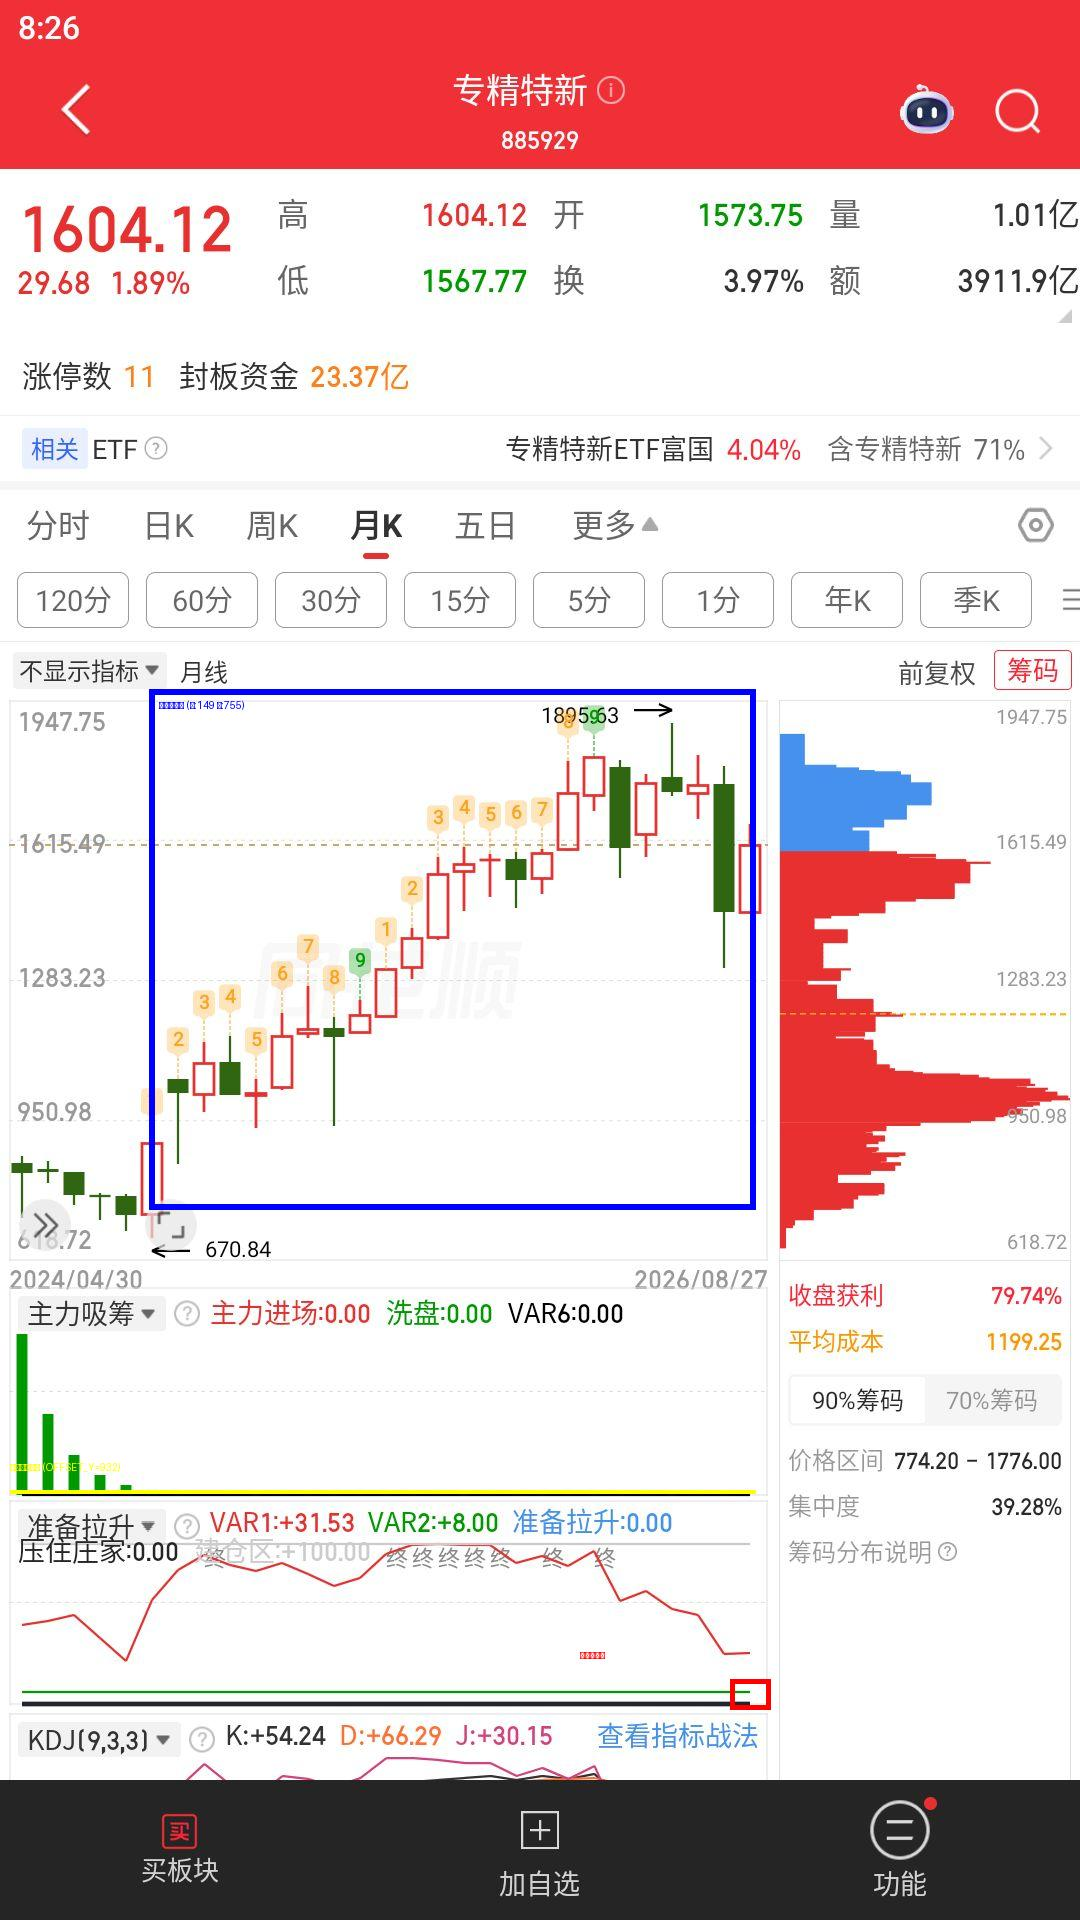
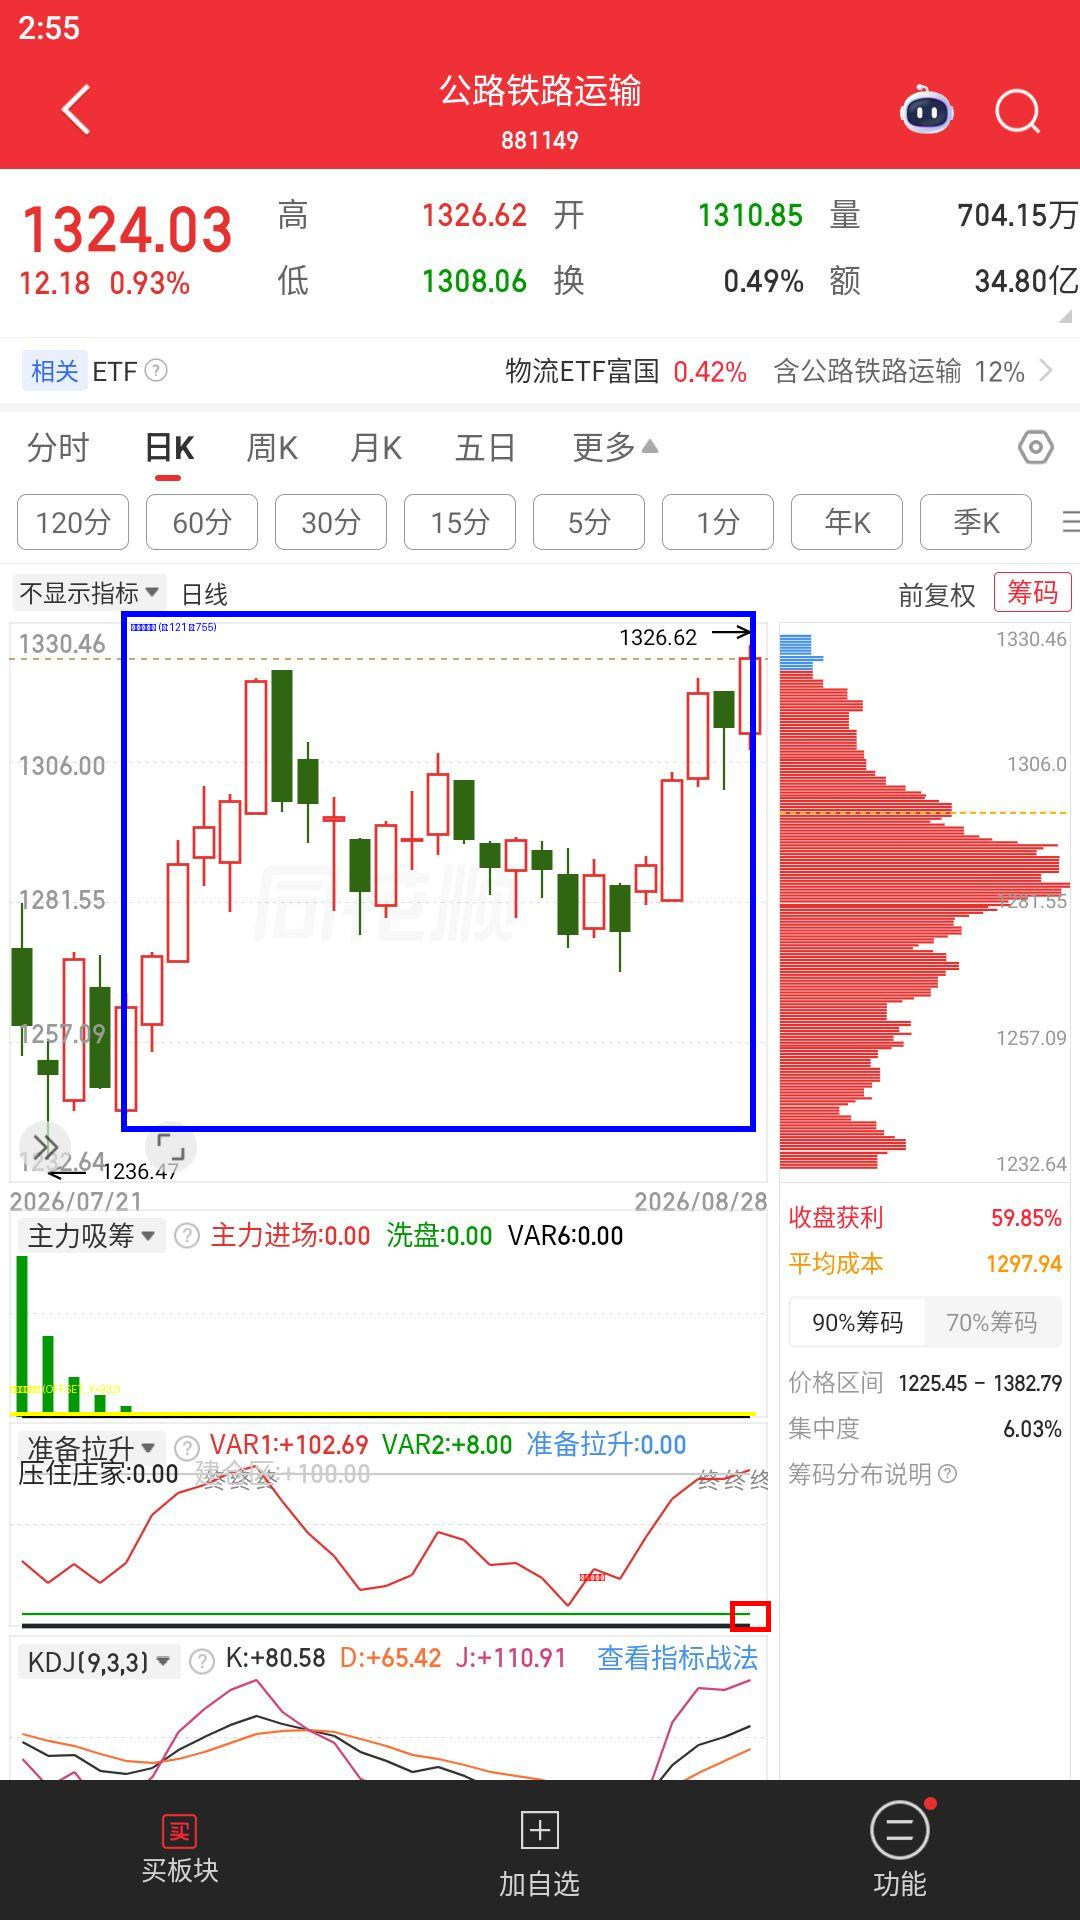
🤖 quant-radar 系统终止同步：08-28 16:47

diff --git a/zuizhongjiansuo.py b/zuizhongjiansuo.py
@@ -22,24 +22,19 @@ END_INDEX = 5000
 POS_SEARCH = (1016, 115)  
 POS_RESULT = (450, 250)   
 
-# 📍 1. 红绿柱检测参数 (🎯 核心修复：必须分三周期独立配置！)
-# 你用诊断脚本量出日K和月K的偏移后，填在这里：
-OFFSET_Y_DICT = {
-    "日K": 932,  # 👈 日K的红绿柱扫描高度偏移
-    "周K": 932,  # 👈 周K的红绿柱扫描高度偏移 (你已知 932 是完美的)
-    "月K": 932   # 👈 月K的红绿柱扫描高度偏移
-}
+# 📍 1. 红绿柱检测参数
+OFFSET_Y = 932              
 VALIDATOR_OFFSET_Y = 300  
 SCAN_X_START = 10
 SCAN_X_END = 755
 
-# 📍 2. 始字检测参数 (Y轴基于日K按钮偏移，X轴绝对位置)
+# 📍 2. 始字检测参数
 SHI_X_START = 730
 SHI_X_END = 770
 SHI_Y_START = 1120
 SHI_Y_END = 1150
 
-# 📍 3. 横盘评分大框参数 (Y轴基于日K按钮偏移)
+# 📍 3. 横盘评分大框参数
 BOX_TOP_OFFSET = 130           
 BOX_BOTTOM_OFFSET = 650        
 BOX_X_END = 770              
@@ -139,22 +134,25 @@ def extract_timeframe_data(d, tf_name, worker_name, calc_score=True):
         return False, None
 
     target.click()
-    # 严格 1.0 秒等待加载指标
     time.sleep(1.0) 
 
     img = d.screenshot(format='pillow').convert('RGB')
     info = d.info
     scale_y = img.size[1] / info['displayHeight']
-    base_bottom = target.info['bounds']['bottom']
+    
+    # 🎯 核心锚点修复：无论当前点的是什么周期，统统抓取未选中的"日K"做绝对尺子！
+    # 彻底杜绝选中的按钮因长出下划线而造成的像素位移！
+    anchor = d(text="日K")
+    if anchor.exists:
+        base_bottom = anchor.info['bounds']['bottom']
+    else:
+        base_bottom = target.info['bounds']['bottom'] # 极度异常时的后备方案
 
     pixel_base_y_shi = int(base_bottom * scale_y)
     has_shi = detect_shi_character_fast(img, pixel_base_y_shi)
 
     validator_y = int(max(10, min(base_bottom + VALIDATOR_OFFSET_Y, 1900)))
-    
-    # 🎯 核心修复：根据目前处于日K/周K/月K，调用专属高度参数！
-    current_offset_y = OFFSET_Y_DICT.get(tf_name, 932)
-    target_y = int(max(10, min(base_bottom + current_offset_y, 1900)))
+    target_y = int(max(10, min(base_bottom + OFFSET_Y, 1900)))
 
     canvas_loaded = any(abs(img.getpixel((x, validator_y))[0] - img.getpixel((x, validator_y))[1]) > 20 for x in range(SCAN_X_START, SCAN_X_END + 1, 10))
     if not canvas_loaded: return False, None
@@ -299,16 +297,11 @@ def worker(device_id, task_queue, worker_name):
                     raise Exception(f"{tf} 加载失败")
                 results[tf] = res
                 
-                # 🎯 核心新增：带彩色红绿方块的超级控制台输出
+                # 🎯 核心输出修复：彻底删除省略号截断，完整输出彩色长龙！
                 shi_icon = "🔴有" if res['shi'] else "➖无"
                 score_str = f"| 评分: {res['score']:>4} " if tf == "日K" else ""
                 
-                # 截取最后 80 个字符，防止终端被刷屏太乱，足以让你看清最近异动
-                visual_seq = res['seq_term']
-                if len(visual_seq) > 400: # 颜色代码带格式字符较长
-                    visual_seq = "..." + visual_seq[-350:] 
-                    
-                print(f"  📺 [{worker_name}] {tf} | 始字:{shi_icon} {score_str}\n      扫描结果: [{visual_seq}]")
+                print(f"  📺 [{worker_name}] {tf} | 始字:{shi_icon} {score_str}\n      扫描结果: [{res['seq_term']}]")
 
             saved = save_comprehensive_result(stock_code, stock_name, results["日K"], results["周K"], results["月K"])
             if not saved:
